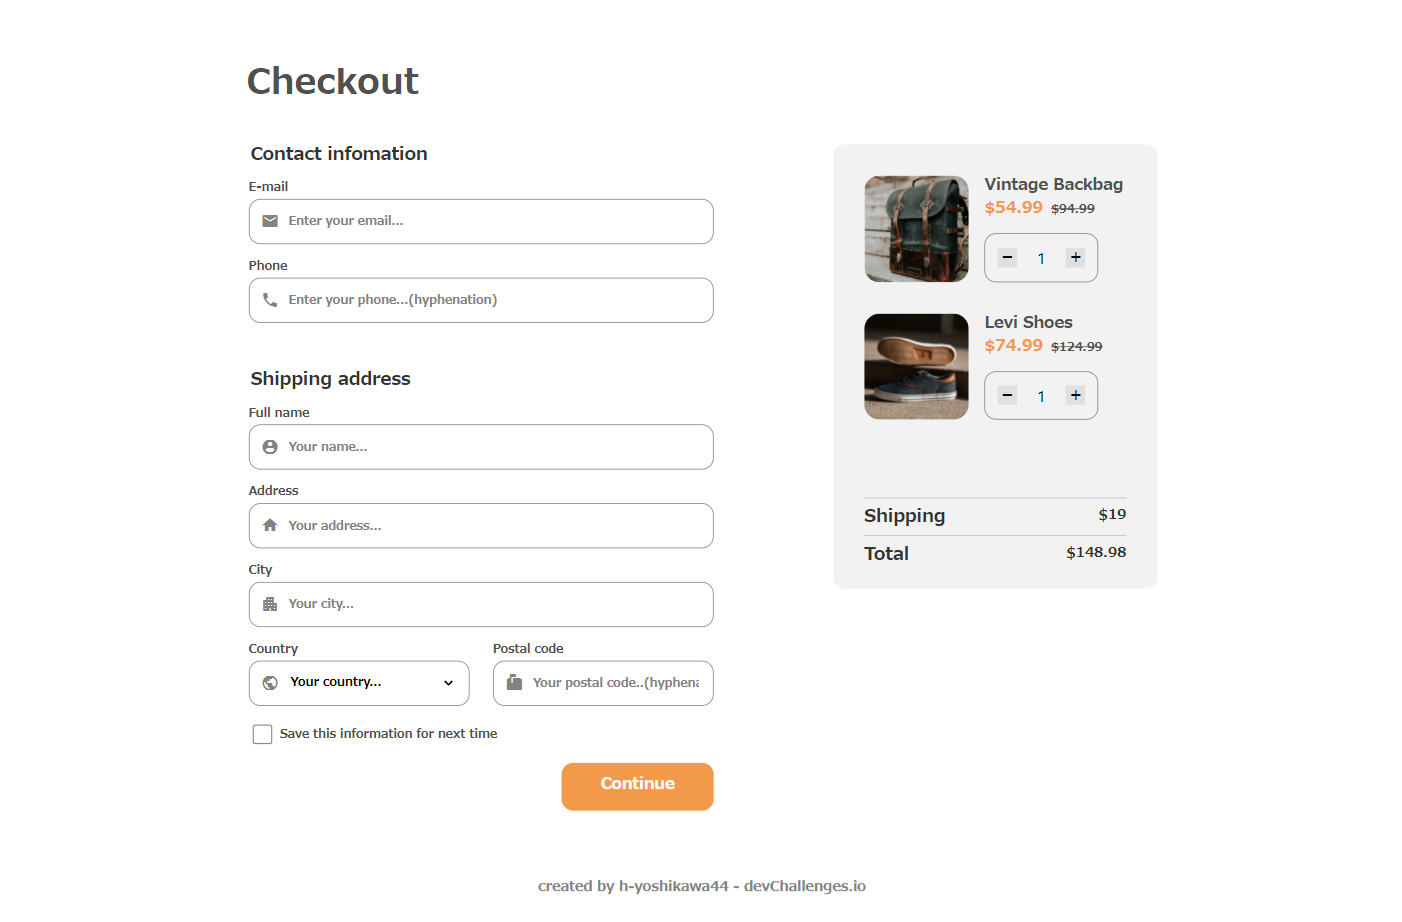
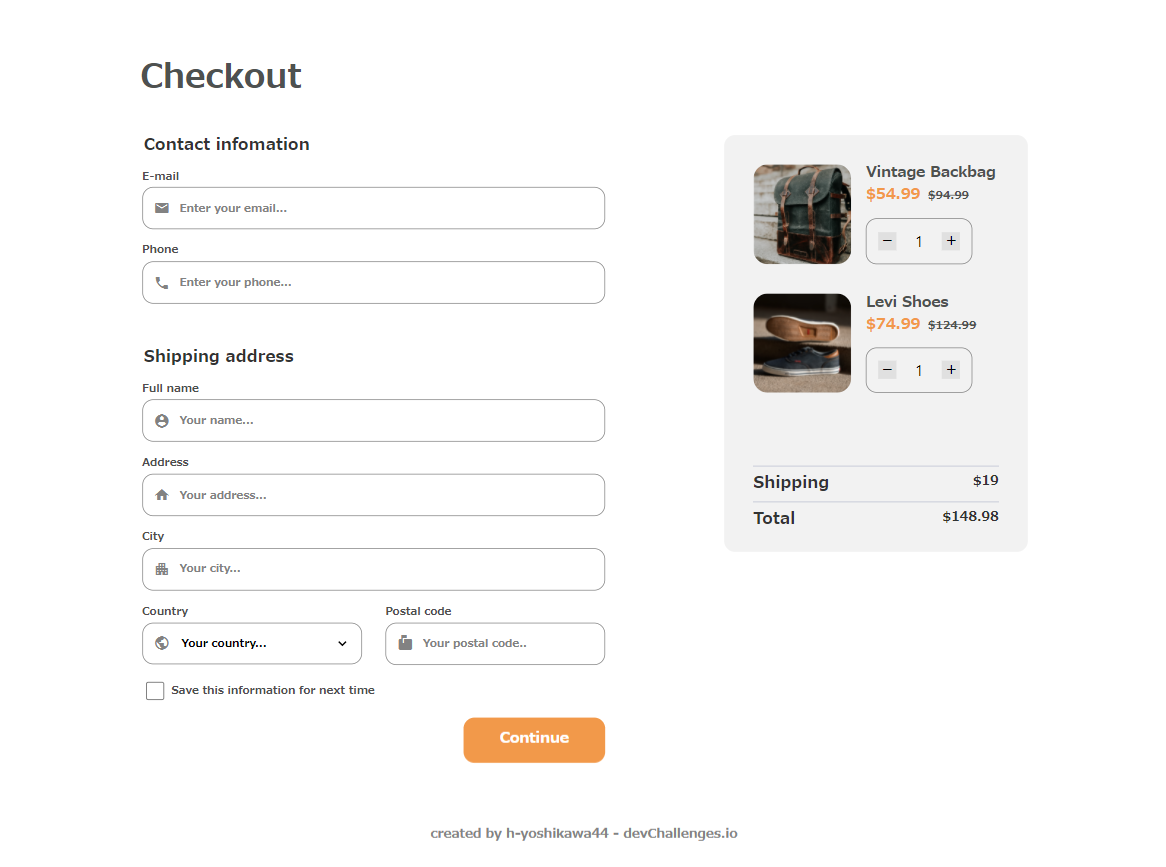
fix: iOS Safariのinput type=tel 対応(#6)
iOS Safari の input type=tel では数字しか入力できないので
ハイフン区切りなしで入力に変更した。
郵便番号もあわせてハイフン区切りなしにした。

diff --git a/index.html b/index.html
@@ -122,12 +122,13 @@
               Phone
               <div class="input-form__custom-input">
                 <span class="material-icons"> phone </span>
+                <!-- バリデーションは日本仕様 -->
                 <input
                   type="tel"
                   name="phone"
-                  pattern="^\d{2,4}-\d{3,4}-\d{3,4}"
-                  title="有効な電話番号書式（ハイフン区切り）で入力してください。例： 090-0000-0000"
-                  placeholder="Enter your phone...(hyphenation)"
+                  pattern="^\d{2,4}\d{3,4}\d{3,4}"
+                  title="有効な電話番号書式（ハイフンなし）で入力してください。例： 09012345678"
+                  placeholder="Enter your phone..."
                   autocomplete="tel"
                   required
                 />
@@ -190,12 +191,13 @@
                 Postal code
                 <div class="input-form__custom-input">
                   <span class="material-icons"> markunread_mailbox </span>
+                  <!-- バリデーションは日本仕様 -->
                   <input
-                    type="text"
+                    type="number"
                     name="postal-code"
-                    pattern="\d{3}-\d{4}"
-                    title="有効な郵便番号書式（ハイフン区切り）で入力してください。例：819-0000"
-                    placeholder="Your postal code..(hyphenation)"
+                    pattern="\d{3}\d{4}"
+                    title="有効な郵便番号書式（ハイフンなし）で入力してください。例：8190000"
+                    placeholder="Your postal code.."
                     autocomplete="postal-code"
                     required
                   />

diff --git a/README.md b/README.md
@@ -44,7 +44,7 @@
 ![overview - desktop](/screenshots/desktop.png)
 
 ### Mobile
-<img src="/screenshots/mobile.png" alt="overview - mobile" width="35%">
+<img src="./screenshots/mobile.png" alt="overview - mobile" width="35%">
 
 ### Built With
 
@@ -62,6 +62,7 @@ Other major libraries
 - [focus-visible](https://github.com/WICG/focus-visible)
 
 ※As for the form validation, it is done using HTML only.
+※The pattern validation for Phone and Postal code is based on Japanese specifications.
 
 ## Features
 
@@ -96,6 +97,7 @@ $ yarn dev
 ## learned/improved
 - about the different types of autocomplete.
 - Validation Processing in HTML.
+- Input type="tel" in iOS Safari allows only numbers.
 
 ## Acknowledgements
 
